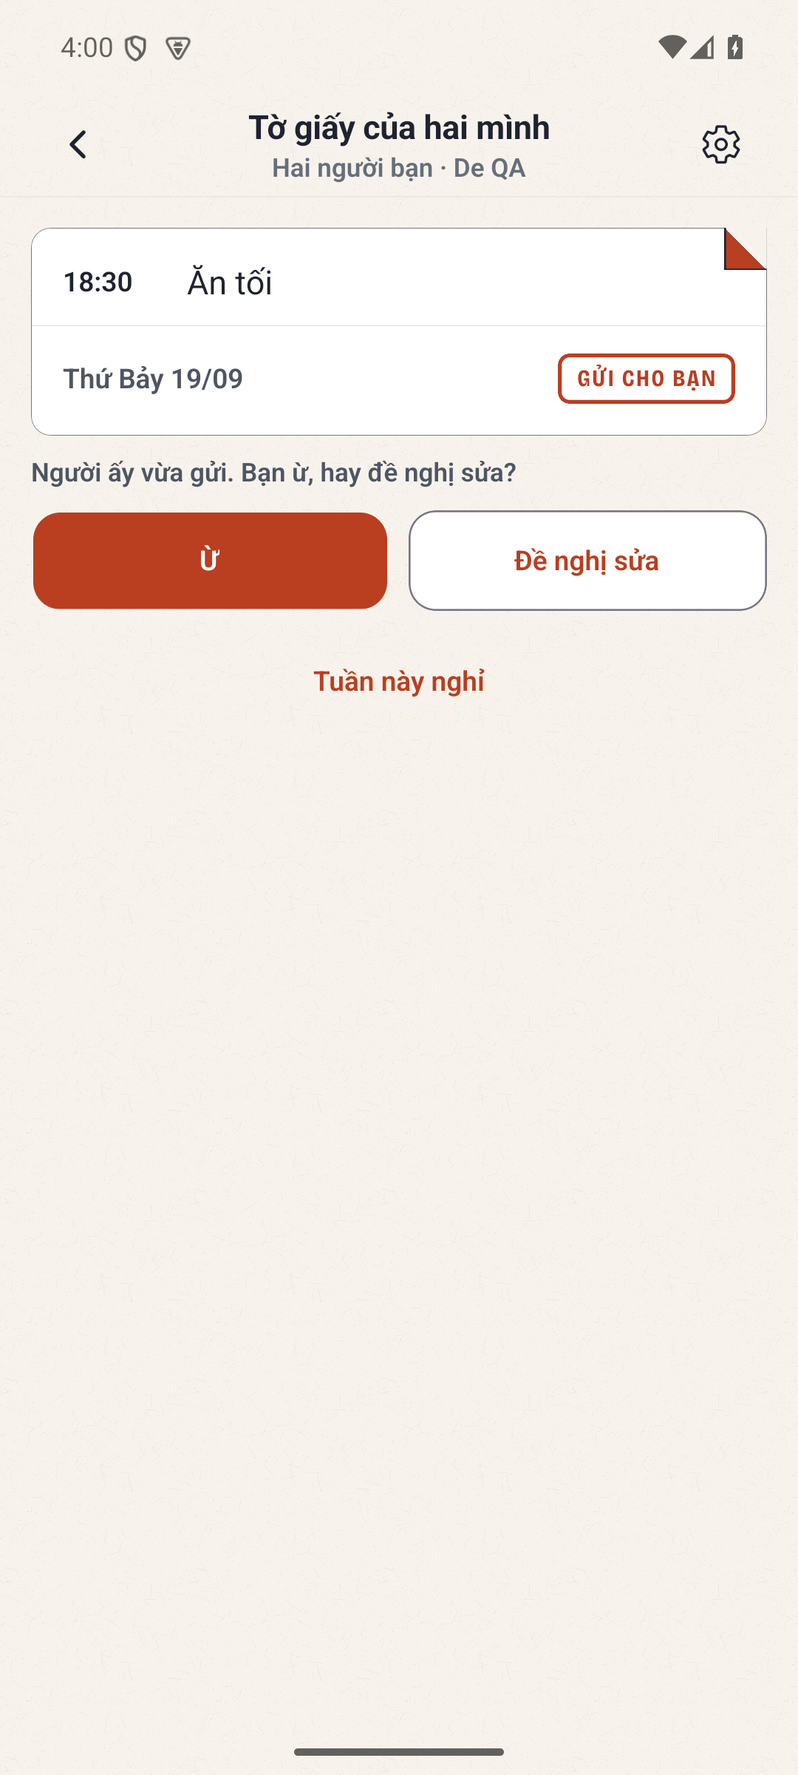
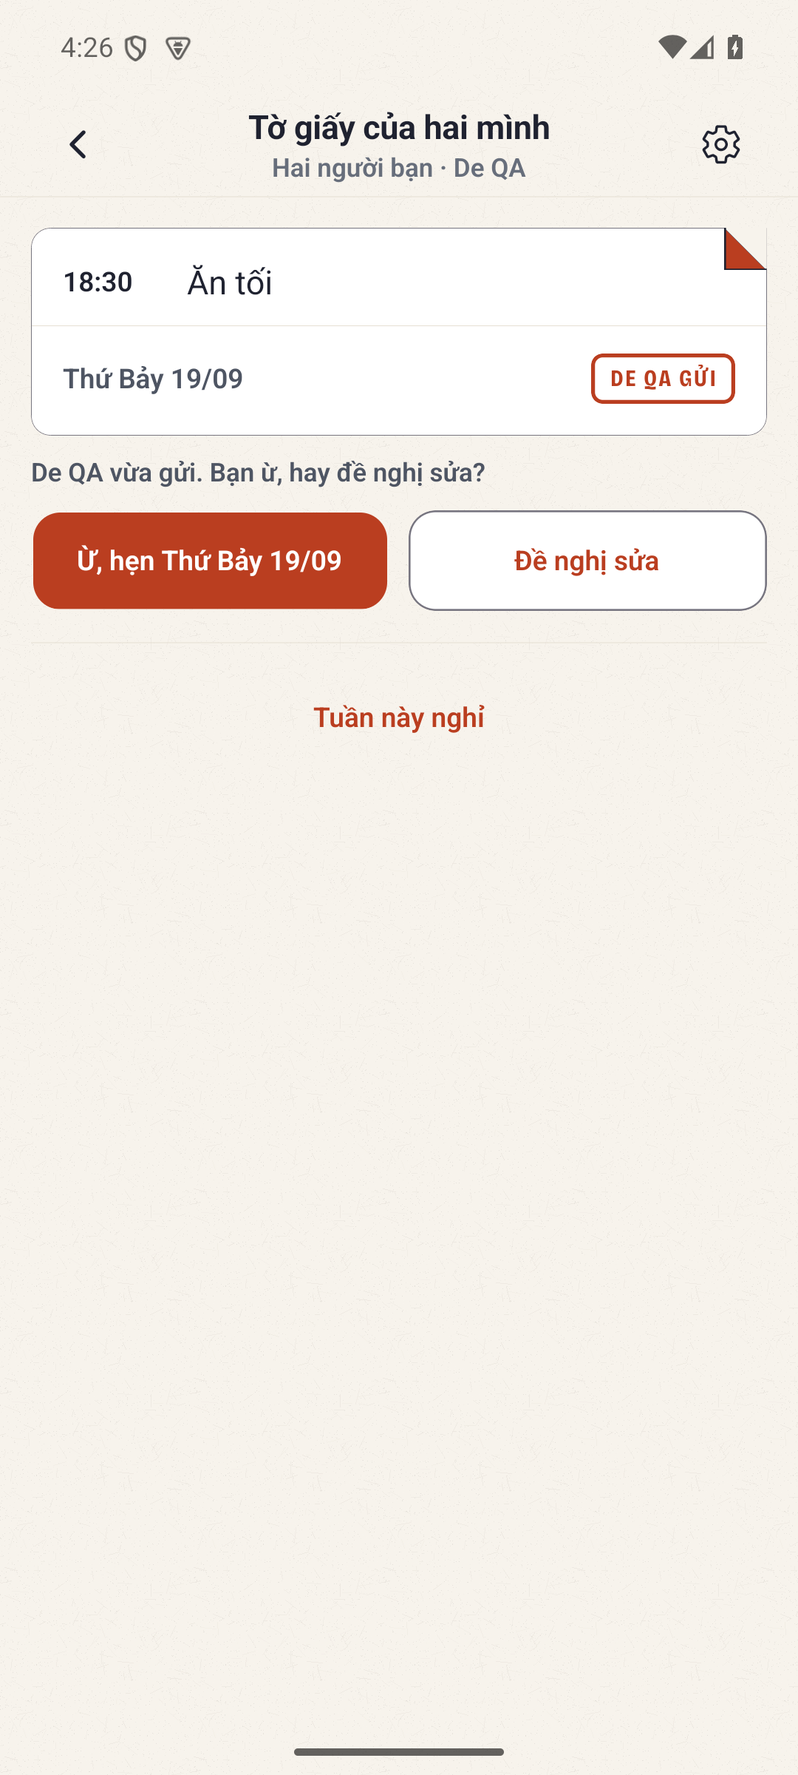
ui(pair): tám mục của vòng đọc mù, và một cú chạm không còn xoá được buổi tối của người khác
`impeccable-finish-reviewer` chạy context mới, đọc mù ba ảnh trước khi biết ý
đồ, trả về tám mục với phán quyết `fix`. Sửa cả tám trong một đợt, dựng lại,
chụp lại cùng một lượt flow trên máy thật.

**Mục nặng nhất.** «Huỷ buổi này» xoá một buổi người kia ĐÃ đồng ý và đang
trông — nó biến mất trên máy của họ — và nó là một dòng chữ coral trần nối
thẳng vào `so.huy`. Một cú chạm. Ba việc khác cũng thế: bỏ bản phác, rút lại,
nghỉ tuần. Bản dựng này có luật riêng «việc không lấy lại được phải nói ra nó
làm gì TRƯỚC khi làm», và `DongSo` đã có sẵn khuôn. `XacNhanViec` là cùng khuôn
cho bốn việc còn lại, và câu của nó gọi TÊN người kia vì hậu quả rơi lên họ.

**Góc gấp và con tem bám theo LƯỢT, không theo «tờ đang mở».** Hai dấu to nhất
trên khung, và bản đầu bật cả hai theo trạng thái mở — nên một tờ đã gửi đang
chờ người kia vẫn hét «làm gì đi», giống hệt khung đang chờ chính mình. Luật
«nhìn một cái biết ai đang chờ ai» hỏng đúng ở trạng thái nó sinh ra để phục vụ.

Sáu mục còn lại: hai nút coral cùng chữ «Rủ đi chơi» trên một khung · «Ừ» một
âm tiết không nói nó cam kết gì, nay mang theo ngày · lối thoát tách khỏi nhóm
chính bằng một nét (bảng màu không có tông phá huỷ, nên nét kẻ và tờ xác nhận
mang việc ấy) · tên người kia vào câu trạng thái và con tem · «GỬI CHO BẠN» in
hoa đọc ra như MỆNH LỆNH trước khi đọc ra như trạng thái, nay là «<tên> gửi» ·
con dấu rơi được soạn sẵn mà chưa bao giờ bắn, nay bắn khi trạng thái đổi ngay
trên màn chứ không khi mở lại một tờ cũ.
[…]

diff --git a/apps/mobile/src/rudi/screens/hai-nguoi/ToLoiRu.tsx b/apps/mobile/src/rudi/screens/hai-nguoi/ToLoiRu.tsx
@@ -1,3 +1,4 @@
+import { useEffect, useRef } from "react";
 import { StyleSheet, Text, View, useWindowDimensions } from "react-native";
 
 import { chuLon } from "../../adaptive";
@@ -45,6 +46,7 @@ import { ToGiay as ToGiayView, VetGap } from "../../ui/ToGiay";
 export function ToLoiRu({
   to,
   toiId,
+  tenNguoiKia,
   dan,
   onGui,
   onSuaNhap,
@@ -60,6 +62,8 @@ export function ToLoiRu({
 }: {
   to: ToGiay;
   toiId: string;
+  /** The other person's name, so the turn can be stated with it rather than «người ấy». */
+  tenNguoiKia?: string;
   /** This sheet is the thing to do now on this surface. */
   dan?: boolean;
   onGui?: () => void;
@@ -79,8 +83,22 @@ export function ToLoiRu({
   const doc = chuLon(fontScale);
   const pb = phienBan(to);
   const dauTien = phienBan(to, 1);
-  const cau = cauTrangThai(to, toiId);
+  const cau = cauTrangThai(to, toiId, tenNguoiKia);
   const nut = nutChoTo(to, toiId);
+  // Lượt của TÔI, không phải «tờ đang mở». Góc gấp coral và con tem coral là
+  // hai dấu to nhất trên khung, và bản đầu bật cả hai theo trạng thái mở — nên
+  // một tờ đã gửi đang chờ NGƯỜI KIA vẫn hét lên «làm gì đi», giống hệt khung
+  // đang chờ chính mình. Luật «nhìn một cái biết ai đang chờ ai» hỏng đúng ở
+  // trạng thái nó sinh ra để phục vụ.
+  const luotCuaToi = nut.includes("gui") || nut.includes("dong_y");
+  // Con dấu chỉ rơi khi trạng thái đổi TRONG LÚC tờ này đang ở trên màn. Mở
+  // lại một tờ đã chốt từ hôm qua thì nó đã ở đó rồi, và một con dấu rơi lúc
+  // ấy là kể lại một khoảnh khắc không thuộc về người đang nhìn.
+  const truoc = useRef<string | null>(null);
+  const vuaDoi = truoc.current !== null && truoc.current !== `${to.id}:${to.state}` && truoc.current.startsWith(`${to.id}:`);
+  useEffect(() => {
+    truoc.current = `${to.id}:${to.state}`;
+  }, [to.id, to.state]);
   const dangQuyet = ["da_gui", "da_xem", "de_nghi_sua", "dong_y"].includes(to.state);
   const doi = dangQuyet && pb && to.version > 1 ? khacGi(pb, phienBanTruoc(to)) : [];
   const lyDoSua = dangQuyet && to.version > 1 ? pb?.ly_do ?? null : null;
@@ -107,7 +125,7 @@ export function ToLoiRu({
 
   return (
     <View style={styles.khoi} testID={testID}>
-      <ToGiayView dan={dan} testID={testID ? `${testID}-to` : undefined}>
+      <ToGiayView dan={dan && luotCuaToi} testID={testID ? `${testID}-to` : undefined}>
         <View accessibilityLabel={cau} accessibilityRole="summary" accessible style={styles.thanTo}>
           {hang.length === 0 ? (
             <Text style={[typography.body, { color: colors.inkSoft }]}>Tuần này Nếp chưa có gì để phác. Bạn viết lấy một dòng?</Text>
@@ -125,9 +143,13 @@ export function ToLoiRu({
           <View style={styles.hangCuoi}>
             <Text style={[typography.label, { color: colors.inkSoft, flexShrink: 1 }]}>{pb ? ngayDocDuoc(pb.content.ngay) : ""}</Text>
             <Stamp
-              label={nhanDau(to, toiId)}
+              // «Con dấu rơi xuống» là khoảnh khắc ký của thế giới này, và nó
+              // chỉ đúng khi trạng thái vừa đổi DƯỚI NGÓN TAY người đang nhìn.
+              dong={vuaDoi}
+              label={nhanDau(to, toiId, tenNguoiKia)}
               testID={testID ? `${testID}-stamp` : undefined}
-              tone={TRANG_THAI_MO.includes(to.state) ? "accent" : "ink"}
+              tilt={vuaDoi ? -2 : 0}
+              tone={luotCuaToi ? "accent" : "ink"}
             />
           </View>
         </View>
@@ -157,14 +179,22 @@ export function ToLoiRu({
         <View style={[styles.nutChinh, doc && styles.nutDoc, { gap: space.sm }]}>
           {chinh.map((n, i) => (
             <View key={n} style={doc ? styles.nutFull : styles.nutNua}>
-              <RudiButton label={CHU_NUT[n]} onPress={bam[n]!} variant={i === 0 ? "solid" : "outline"} />
+              <RudiButton label={chuNut(n, pb)} onPress={bam[n]!} variant={i === 0 ? "solid" : "outline"} />
             </View>
           ))}
         </View>
       ) : null}
-      {phu.map((n) => (
-        <RudiButton key={n} label={CHU_NUT[n]} onPress={bam[n]!} variant="ghost" />
-      ))}
+      {phu.length > 0 ? (
+        // Tách khỏi nhóm trên bằng một nét: đây là các lối THOÁT, và «Bỏ bản
+        // phác này» vứt đi thứ vừa viết còn «Huỷ buổi này» xoá một buổi người
+        // kia đang trông. Bảng màu không có tông «phá huỷ» nên nét kẻ mang việc
+        // ấy, và tờ xác nhận ở dưới mới là thứ nói ra hậu quả.
+        <View style={[styles.thoat, { borderTopColor: colors.line, gap: space.sm }]}>
+          {phu.map((n) => (
+            <RudiButton key={n} label={chuNut(n, pb)} onPress={bam[n]!} variant="ghost" />
+          ))}
+        </View>
+      ) : null}
     </View>
   );
 }
@@ -173,16 +203,20 @@ export function ToLoiRu({
  * The readable word on the stamp, from the reader's side. Every state has one
  * (spec §12.1); the ones that depend on who sent the current version say so.
  */
-export function nhanDau(to: ToGiay, toiId: string): string {
+export function nhanDau(to: ToGiay, toiId: string, tenNguoiKia?: string): string {
   const pb = phienBan(to);
   const toiGui = pb?.author_type === "human" && pb.sent_by === toiId;
+  const ho = tenNguoiKia?.trim() || "Người ấy";
   switch (to.state) {
     case "da_gui":
-      return pb?.author_type === "nep" ? "Nếp gửi hộ" : toiGui ? "Đã gửi" : "Gửi cho bạn";
+      // «GỬI CHO BẠN» in hoa đọc ra như một MỆNH LỆNH («gửi cho một người
+      // bạn») trước khi đọc ra như một trạng thái. Nói ai gửi thì hết nhập
+      // nhằng, và hàng dưới đó đã nói phải làm gì.
+      return pb?.author_type === "nep" ? "Nếp gửi hộ" : toiGui ? "Đã gửi" : `${ho} gửi`;
     case "da_xem":
       return toiGui ? "Đã xem" : "Chờ bạn";
     case "dong_y":
-      return daDongY(to, "toi", toiId) ? "Bạn đã ừ" : "Người ấy đã ừ";
+      return daDongY(to, "toi", toiId) ? "Bạn đã ừ" : `${ho} đã ừ`;
     case "rut":
       return toiGui ? "Bạn đã rút" : "Đã rút";
     default:
@@ -211,6 +245,18 @@ export const NHAN: Record<ToGiay["state"], string> = {
   huy: "Đã huỷ",
 };
 
+/**
+ * Chữ trên nút, và «Ừ» mang theo cái nó cam kết.
+ *
+ * Một âm tiết trên một nút coral kín có thể là cú bấm biến một lời đề nghị
+ * thành một buổi đã chốt mà đường ra duy nhất là «Huỷ buổi này». Nút phải nói
+ * nó làm gì.
+ */
+function chuNut(n: string, pb: { content: { ngay: string } } | undefined): string {
+  if (n === "dong_y" && pb) return `Ừ, hẹn ${ngayDocDuoc(pb.content.ngay)}`;
+  return CHU_NUT[n];
+}
+
 const CHU_NUT: Record<string, string> = {
   gui: "Gửi cho người ấy",
   sua_nhap: "Sửa trước khi gửi",
@@ -232,6 +278,7 @@ const styles = StyleSheet.create({
   viec: { flex: 1 },
   hangCuoi: { flexDirection: "row", alignItems: "center", justifyContent: "space-between", gap: 12, marginTop: 4 },
   lyDo: { paddingHorizontal: 6 },
+  thoat: { borderTopWidth: StyleSheet.hairlineWidth, paddingTop: 12, marginTop: 6 },
   doi: { borderLeftWidth: StyleSheet.hairlineWidth, paddingLeft: 12, gap: 2 },
   giu: { gap: 2, paddingHorizontal: 6 },
   nutChinh: { flexDirection: "row" },

diff --git a/apps/mobile/src/rudi/screens/hai-nguoi/KhongGianGiay.tsx b/apps/mobile/src/rudi/screens/hai-nguoi/KhongGianGiay.tsx
@@ -12,6 +12,7 @@ import { EmptyState } from "../../ui/EmptyState";
 import { Sheet } from "../../ui/Sheet";
 import { DeNghiSua } from "./DeNghiSua";
 import { DongSo } from "./DongSo";
+import { XacNhanViec } from "./XacNhanViec";
 import { BatMotDoi, LapSo } from "./DongYBac";
 import { GiuMotDieu } from "./GiuMotDieu";
 import { LoaiSo } from "./LoaiSo";
@@ -55,6 +56,10 @@ export function KhongGianGiayScreen({ contextId, ruNgay = false }: { contextId: 
   const deNghiBatDoi = so.deNghiCho.find((d) => d.purpose === "bat_doi");
   const pbMo = toMo ? phienBan(toMo) : undefined;
   const toiGuiToMo = pbMo?.author_type === "human" && pbMo.sent_by === so.toiId;
+
+  // Bốn việc không lấy lại được đi qua một tờ xác nhận nói ra hậu quả trước
+  // khi làm — luật của chính bản dựng này, và `DongSo` đã có khuôn ấy.
+  const [viec, setViec] = useState<null | "bo" | "rut" | "nghi_tuan" | "huy">(null);
 
   const dong = () => setMo(null);
 
@@ -111,16 +116,17 @@ export function KhongGianGiayScreen({ contextId, ruNgay = false }: { contextId: 
     than = (
       <ToLoiRu
         dan={dangCoToMo}
-        onBoNhap={() => so.boNhap(toMo.id)}
+        onBoNhap={() => setViec("bo")}
         onDaDi={() => so.daDi(toMo.id)}
         onDeNghiSua={() => setMo("de-nghi-sua")}
         onDongY={() => so.dongY(toMo.id)}
         onGiu={() => setMo("giu")}
         onGui={() => so.gui(toMo.id)}
-        onHuy={() => so.huy(toMo.id)}
-        onNghiTuan={() => so.nghiTuan(toMo.id)}
-        onRut={() => so.rut(toMo.id)}
+        onHuy={() => setViec("huy")}
+        onNghiTuan={() => setViec("nghi_tuan")}
+        onRut={() => setViec("rut")}
         onSuaNhap={() => setMo("de-nghi-sua")}
+        tenNguoiKia={so.tenNguoiKia}
         testID="to-mo"
         to={toMo}
         toiId={so.toiId}
@@ -147,7 +153,11 @@ export function KhongGianGiayScreen({ contextId, ruNgay = false }: { contextId: 
         // No second lead while a plan stands: with «Đã đi rồi» and «Huỷ buổi
         // này» on the sheet, a coral «Rủ đi chơi» underneath made three things
         // to do on one frame (blind read 12/09).
-        !so.daDong && so.lapSo && !dangCoToMo && !(toMo && (toMo.state === "chot" || toMo.state === "da_di")) ? (
+        // …and no second lead while the EMPTY STATE is already offering the same
+        // word: with no sheet at all, «Rủ đi chơi» rendered twice in coral,
+        // 1300px apart, and the second one reads as a different action somebody
+        // then hunts for the difference between (finish review 14/09).
+        !so.daDong && so.lapSo && toMo !== undefined && !dangCoToMo && !(toMo.state === "chot" || toMo.state === "da_di") ? (
           <View style={styles.footer}>
             <RudiButton label="Rủ đi chơi" onPress={() => void so.ruDiChoi()} />
           </View>
@@ -193,6 +203,22 @@ export function KhongGianGiayScreen({ contextId, ruNgay = false }: { contextId: 
       <BatMotDoi dangCho={deNghiBatDoi !== undefined} deNghiCuaToi={deNghiBatDoi?.cuaToi ?? true} nguoiKiaDongY={so.nguoiKia && deNghiBatDoi ? () => so.nguoiKia?.dongYDeNghi(deNghiBatDoi.id) : null} onClose={dong} onDeNghi={so.deNghiBatDoi} onDongY={() => { if (deNghiBatDoi) { so.dongYDeNghi(deNghiBatDoi.id); dong(); } }} open={mo === "bat-doi"} />
       <LoaiSo batDoi={so.batDoi} dangCho={deNghiBatDoi !== undefined} nguoiKiaDongY={so.nguoiKia && deNghiBatDoi ? () => so.nguoiKia?.dongYDeNghi(deNghiBatDoi.id) : null} onChonBan={so.thuHoiBatDoi} onChonDoi={so.deNghiBatDoi} onClose={dong} open={mo === "loai-so"} />
       <RangBuoc nguoiKia={so.rangBuoc.nguoiKia} onClose={dong} onLuu={(rb) => { so.datRangBuoc(rb); dong(); }} open={mo === "rang-buoc"} tenNguoiKia={so.tenNguoiKia} toi={so.rangBuoc.toi} />
+      <XacNhanViec
+        hauQua={viec === null || !toMo ? "" : HAU_QUA[viec](so.tenNguoiKia, phienBan(toMo)?.content.ngay ?? "")}
+        nhanLam={viec === null ? "" : NHAN_LAM[viec]}
+        onClose={() => setViec(null)}
+        onXacNhan={() => {
+          if (!toMo || viec === null) return;
+          if (viec === "bo") so.boNhap(toMo.id);
+          else if (viec === "rut") so.rut(toMo.id);
+          else if (viec === "nghi_tuan") so.nghiTuan(toMo.id);
+          else so.huy(toMo.id);
+          setViec(null);
+        }}
+        open={viec !== null}
+        testID="xac-nhan-viec"
+        tieuDe={viec === null ? "" : TIEU_DE[viec]}
+      />
       <DongSo onClose={dong} onDong={() => { if (xemTruoc) { so.dongSo(xemTruoc.revision); dong(); } }} open={mo === "dong-so"} xemTruoc={xemTruoc} />
       <Sheet accessibilityLabel="Đóng vai người ấy" onClose={dong} open={mo === "nguoi-kia"} testID="nguoi-kia">
         <View style={{ gap: space.sm, paddingBottom: 8 }}>
@@ -253,6 +279,34 @@ export function KhongGianGiayScreen({ contextId, ruNgay = false }: { contextId: 
     </RudiScreen>
   );
 }
+
+/**
+ * Mỗi việc một câu nói nó làm gì, cho ai — không phải «bạn có chắc không?».
+ *
+ * Tên người kia có mặt ở đây vì hậu quả rơi lên họ: «Ca cũng thấy buổi biến
+ * mất» là thứ làm người đang bấm dừng lại, còn «không lấy lại được» thì không.
+ */
+const TIEU_DE: Record<"bo" | "rut" | "nghi_tuan" | "huy", string> = {
+  bo: "Bỏ bản phác này?",
+  rut: "Rút lại tờ đã gửi?",
+  nghi_tuan: "Tuần này nghỉ?",
+  huy: "Huỷ buổi đã chốt?",
+};
+
+const NHAN_LAM: Record<"bo" | "rut" | "nghi_tuan" | "huy", string> = {
+  bo: "Bỏ bản phác",
+  rut: "Rút lại",
+  nghi_tuan: "Nghỉ tuần này",
+  huy: "Huỷ buổi này",
+};
+
+const HAU_QUA: Record<"bo" | "rut" | "nghi_tuan" | "huy", (ten: string, ngay: string) => string> = {
+  bo: () => "Những gì bạn vừa viết mất đi. Người ấy chưa từng thấy tờ này, nên không ai được báo.",
+  rut: (ten) => `Tờ biến khỏi màn của ${ten || "người ấy"}. Muốn đổi ý thì gửi một tờ mới.`,
+  nghi_tuan: (ten) => `Tuần này hai bạn không hẹn gì. ${ten || "Người ấy"} cũng thấy tuần này khép lại.`,
+  huy: (ten, ngay) =>
+    `${ngay ? `${ngayDocDuoc(ngay)} không còn. ` : ""}${ten || "Người ấy"} đã đồng ý buổi này và cũng thấy nó biến mất. Không lấy lại được.`,
+};
 
 function dongTom(t: ToGiay): string {
   const pb = phienBan(t);

diff --git a/apps/mobile/src/rudi/to-giay/to-giay.ts b/apps/mobile/src/rudi/to-giay/to-giay.ts
@@ -213,7 +213,12 @@ export function khacGi(v: PhienBanTo, vTruoc: PhienBanTo | undefined): string[] 
  * accessibility label of the open sheet and printed under it, so it names the
  * state in words, never by colour alone (spec §12.1).
  */
-export function cauTrangThai(to: ToGiay, toiId: string): string {
+export function cauTrangThai(to: ToGiay, toiId: string, tenNguoiKia?: string): string {
+  // «Ca vừa gửi» trả lời «ai đang chờ ai» trong một cái liếc; «Người ấy vừa
+  // gửi» bắt người đọc dựng lại xem đó là ai. Tên là tuỳ chọn vì hàng đã khép
+  // và ca test thuần không có nó, và khi vắng thì câu cũ vẫn đúng.
+  const ho = tenNguoiKia?.trim() || "Người ấy";
+  const hoThuong = tenNguoiKia?.trim() || "người ấy";
   const pb = phienBan(to);
   const toiGui = pb?.author_type === "human" && pb.sent_by === toiId;
   const nep = pb?.author_type === "nep";
@@ -222,13 +227,15 @@ export function cauTrangThai(to: ToGiay, toiId: string): string {
       return "Bản phác, chỉ bạn thấy. Gửi đi thì người ấy mới nhận.";
     case "da_gui":
       if (nep) return "Nếp gửi hộ vì chưa ai mở lời. Cần cả hai cùng ừ.";
-      return toiGui ? "Đã gửi, chờ trả lời. Người ấy chưa xem." : "Người ấy vừa gửi. Bạn ừ, hay đề nghị sửa?";
+      return toiGui ? `Đã gửi, chờ trả lời. ${ho} chưa xem.` : `${ho} vừa gửi. Bạn ừ, hay đề nghị sửa?`;
     case "da_xem":
-      return toiGui ? "Người ấy đã xem, chưa trả lời." : "Bạn đã mở. Ừ, hay đề nghị sửa?";
+      return toiGui ? `${ho} đã xem, chưa trả lời.` : "Bạn đã mở. Ừ, hay đề nghị sửa?";
     case "de_nghi_sua":
       return "Có đề nghị sửa. Phiên bản mới đang chờ.";
     case "dong_y":
-      return daDongY(to, "toi", toiId) ? "Bạn đã ừ. Chờ người ấy ừ cùng phiên bản này." : "Người ấy đã ừ. Còn bạn.";
+      return daDongY(to, "toi", toiId)
+        ? `Bạn đã ừ. Chờ ${hoThuong} ừ cùng phiên bản này.`
+        : `${ho} đã ừ. Còn bạn.`;
     case "chot":
       return `Đã chốt. Hẹn ${pb ? ngayDocDuoc(pb.content.ngay) : "ngày đã ghi"}.`;
     case "da_di":

diff --git a/apps/mobile/src/rudi/screens/hai-nguoi/XacNhanViec.tsx b/apps/mobile/src/rudi/screens/hai-nguoi/XacNhanViec.tsx
@@ -1,0 +1,53 @@
+import { StyleSheet, Text, View } from "react-native";
+
+import { typography, useRudiTheme } from "../../theme";
+import { Heading, RudiButton } from "../../ui";
+import { Sheet } from "../../ui/Sheet";
+
+/**
+ * «Việc này làm gì, trước khi nó làm.»
+ *
+ * Bốn việc trên tờ giấy không lấy lại được — bỏ bản phác, rút lại, nghỉ tuần,
+ * huỷ buổi đã chốt — và bản đầu nối thẳng chúng vào một dòng chữ coral dưới
+ * tờ giấy: một cú chạm, xong. «Huỷ buổi này» xoá một buổi người kia ĐÃ đồng ý
+ * và đang trông; nó hiện trên máy của họ như một buổi biến mất.
+ *
+ * Luật của chính bản dựng này: việc không lấy lại được phải nói ra nó làm gì
+ * TRƯỚC khi làm. `DongSo` đã có khuôn ấy — đếm trước, rồi mới đóng. Tờ này là
+ * cùng khuôn cho bốn việc còn lại, và nó nhắc tên người kia vì hậu quả rơi lên
+ * họ chứ không chỉ lên người đang bấm.
+ */
+export function XacNhanViec({
+  open,
+  onClose,
+  onXacNhan,
+  tieuDe,
+  hauQua,
+  nhanLam,
+  testID,
+}: {
+  open: boolean;
+  onClose: () => void;
+  onXacNhan: () => void;
+  tieuDe: string;
+  /** Một câu nói việc này làm gì, cho ai. Không phải «bạn có chắc không?». */
+  hauQua: string;
+  nhanLam: string;
+  testID?: string;
+}) {
+  const { colors, space } = useRudiTheme();
+  return (
+    <Sheet accessibilityLabel={tieuDe} onClose={onClose} open={open} testID={testID ?? "xac-nhan-viec"}>
+      <View style={[styles.noiDung, { gap: space.md }]}>
+        <Heading size="h2" title={tieuDe} />
+        <Text style={[typography.body, { color: colors.ink }]} testID={`${testID ?? "xac-nhan-viec"}-hau-qua`}>
+          {hauQua}
+        </Text>
+        <RudiButton label={nhanLam} onPress={onXacNhan} variant="outline" />
+        <RudiButton label="Để đấy" onPress={onClose} variant="ghost" />
+      </View>
+    </Sheet>
+  );
+}
+
+const styles = StyleSheet.create({ noiDung: { paddingBottom: 8 } });

diff --git a/tests/test_maestro_flows_dev_client.py b/tests/test_maestro_flows_dev_client.py
@@ -181,7 +181,7 @@ class MaestroFlowsDriveTheDevClient(unittest.TestCase):
         self.assertNotIn("EXPO_PUBLIC_RUDI_ACTOR=", script)
         self.assertIn("canary_otp", script)
         self.assertIn(
-            "22-*|23-*|24-*|25-*|26-*|27-*|28-*|29-*|31-*|32-*|33-*|34-*|35-*|36-*|37-*|39-*|41-*|42-*|43-*|44-*|45-*|46-*)"
+            "22-*|23-*|24-*|25-*|26-*|27-*|28-*|29-*|31-*|32-*|33-*|34-*|35-*|36-*|37-*|39-*|41-*|42-*|43-*|44-*|45-*|46-*|47-*)"
             ' [ "$OTP" = 1 ] || continue',
             script,
         )

diff --git a/docs/claude/2026-09-14/to-giay-live/README.md b/docs/claude/2026-09-14/to-giay-live/README.md
@@ -44,6 +44,28 @@ buổi tối đọc ra hai thứ tiếng.
   `tests/test_maestro_flows_are_all_reachable.py` đóng lỗ ấy.
 - **Bảng đầy đủ dừng ở flow 45** nếu thiếu `MOBILE_DATABASE_URL`, trước khi tới flow mới.
 
+## Vòng sửa sau `impeccable-finish-reviewer`
+
+Reviewer chạy trong context mới, **đọc mù ba ảnh trước khi biết ý đồ**, và trả về tám mục với
+phán quyết `fix`. Tám mục sửa trong một đợt, dựng lại, chụp lại cùng một lượt flow. Mục nặng
+nhất, và lý do vòng này tồn tại:
+
+**Việc không lấy lại được nổ ra sau một cú chạm.** «Huỷ buổi này» xoá một buổi người kia ĐÃ
+đồng ý và đang trông — nó biến mất trên máy của họ — và nó là một dòng chữ coral trần cách tờ
+giấy 100px, nối thẳng vào `so.huy`. Ba việc khác cũng thế: bỏ bản phác, rút lại, nghỉ tuần.
+Bản dựng này có luật riêng «việc không lấy lại được phải nói ra nó làm gì trước khi làm», và
+`DongSo` đã có sẵn khuôn ấy. `XacNhanViec` là cùng khuôn cho bốn việc còn lại (`47h`), và câu
+của nó gọi TÊN người kia, vì hậu quả rơi lên họ: «Thứ Bảy 19/09 không còn. De QA đã đồng ý
+buổi này và cũng thấy nó biến mất. Không lấy lại được.»
+
+Bảy mục còn lại: góc gấp và con tem coral bám theo LƯỢT chứ không theo «tờ đang mở» (một tờ
+đã gửi đang chờ người kia vẫn hét lên «làm gì đi», đúng trạng thái mà luật «nhìn một cái biết
+ai đang chờ ai» sinh ra để phục vụ) · hai nút coral cùng chữ «Rủ đi chơi» trên một khung ·
+«Ừ» một âm tiết không nói nó cam kết gì, nay là «Ừ, hẹn Thứ Bảy 19/09» · lối thoát tách khỏi
+nhóm chính bằng một nét · tên người kia vào câu trạng thái và con tem · «GỬI CHO BẠN» in hoa
+đọc ra như mệnh lệnh, nay là «<tên> gửi» · con dấu rơi (`dong`) được soạn sẵn mà chưa bao giờ
+bắn, nay bắn khi trạng thái đổi ngay trên màn.
+
 ## Còn nợ
 
 Ba phép đo trong lát (spec 20.5) và pixel-diff màn hội bạn chưa chạy. Đường hội bạn không đổi
